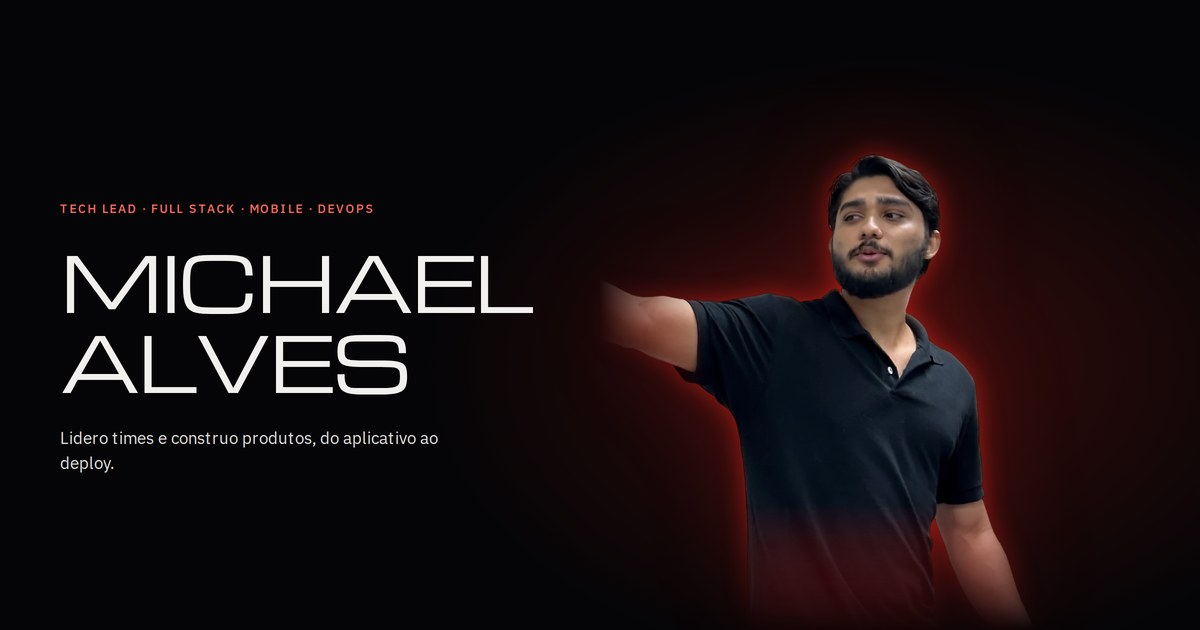
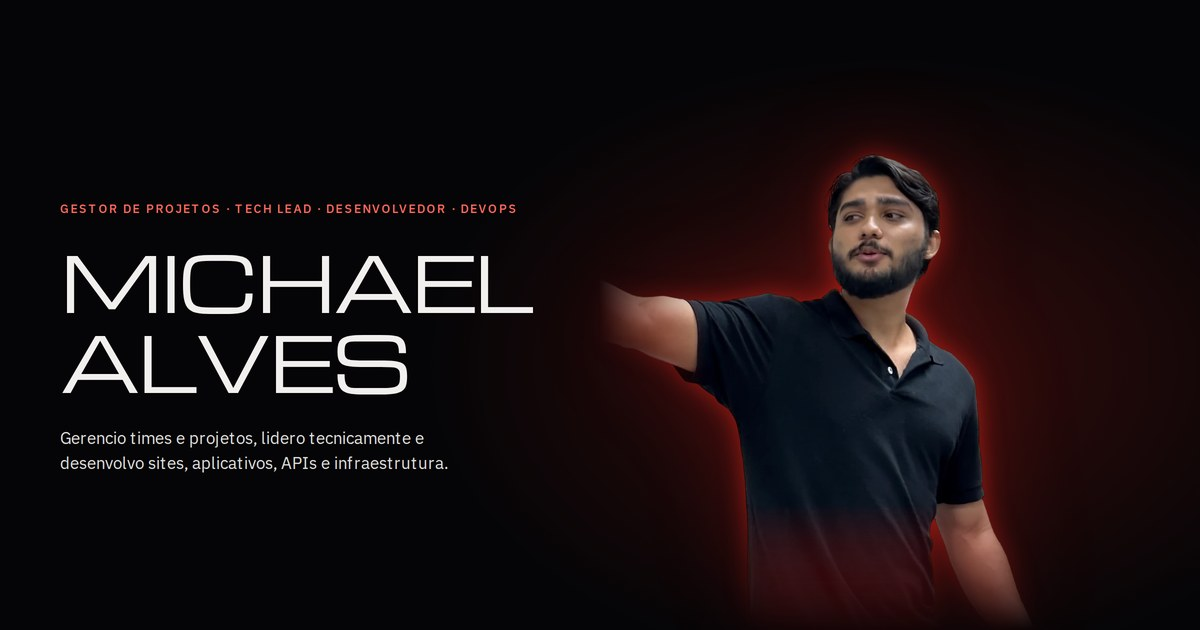
[FEAT] reposition the hero around management and leadership
- Updated the role line to Project Manager, Tech Lead, Developer and DevOps;
- Rewrote the tagline and the first and third highlights, dropping the IFCE mention;
- Balanced the role line wrap on mobile and regenerated the share image.

Changed region(s): [[0.0617, 0.6635, 0.37, 0.754], [0.0617, 0.3016, 0.4317, 0.3619]]

diff --git a/src/lib/dictionary.ts b/src/lib/dictionary.ts
@@ -15,14 +15,14 @@ export const dictionary = {
       { href: "#linha-do-tempo", label: "Linha do tempo" },
       { href: "#transmissao", label: "Transmissão" },
     ],
-    role: "Tech Lead · Full Stack · Mobile · DevOps",
-    tagline: "Lidero times e construo produtos, do aplicativo ao deploy.",
+    role: "Gestor de Projetos · Tech Lead · Desenvolvedor · DevOps",
+    tagline: "Gerencio times e projetos, lidero tecnicamente e desenvolvo sites, aplicativos, APIs e infraestrutura.",
     cta: "Ver projetos",
     portraitAlt: "Michael Alves, de camisa preta, olhando para a esquerda",
     facts: [
-      { value: "Tech Lead", label: "em projetos de P&D com o IFCE" },
+      { value: "Gestão e liderança técnica", label: "de times e projetos de P&D, do planejamento à entrega" },
       { value: "3.690", label: "contribuições no GitHub em 2026" },
-      { value: "Da interface à nuvem", label: "Next.js, Flutter, Django, Spring Boot e AWS" },
+      { value: "Do time ao deploy", label: "gestão, liderança técnica e código: sites, aplicativos, APIs e nuvem" },
     ],
     intro: {
       skip: "Pular abertura",
@@ -109,14 +109,14 @@ export const dictionary = {
       { href: "#linha-do-tempo", label: "Timeline" },
       { href: "#transmissao", label: "Transmission" },
     ],
-    role: "Tech Lead · Full Stack · Mobile · DevOps",
-    tagline: "I lead teams and build products, from the app to the deploy.",
+    role: "Project Manager · Tech Lead · Developer · DevOps",
+    tagline: "I manage teams and projects, lead technically and build websites, apps, APIs and infrastructure.",
     cta: "View projects",
     portraitAlt: "Michael Alves in a black shirt, looking to the left",
     facts: [
-      { value: "Tech Lead", label: "on R&D projects with IFCE" },
+      { value: "Management and technical leadership", label: "of teams and R&D projects, from planning to delivery" },
       { value: "3,690", label: "GitHub contributions in 2026" },
-      { value: "Interface to cloud", label: "Next.js, Flutter, Django, Spring Boot and AWS" },
+      { value: "From team to deploy", label: "management, technical leadership and code: websites, apps, APIs and cloud" },
     ],
     intro: {
       skip: "Skip intro",

diff --git a/src/app/globals.css b/src/app/globals.css
@@ -316,6 +316,7 @@ html.intro-lock .saber-ignite {
   font-weight: 500;
   letter-spacing: 0.13em;
   text-transform: uppercase;
+  text-wrap: balance;
 }
 
 .hero-name {
